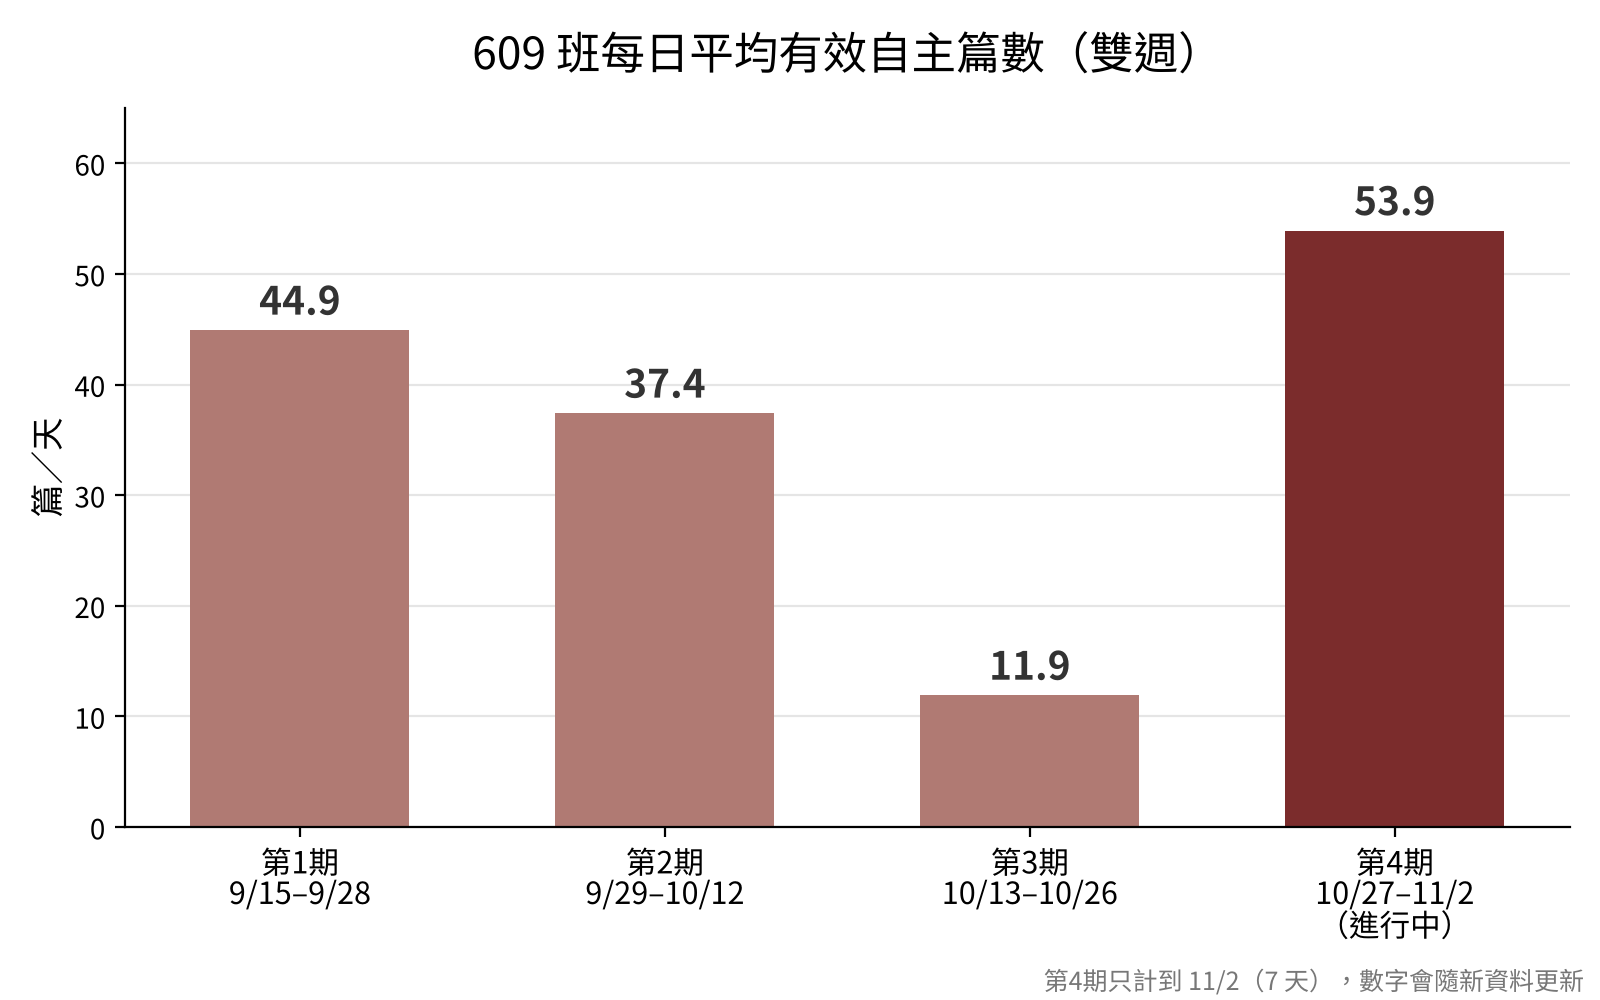
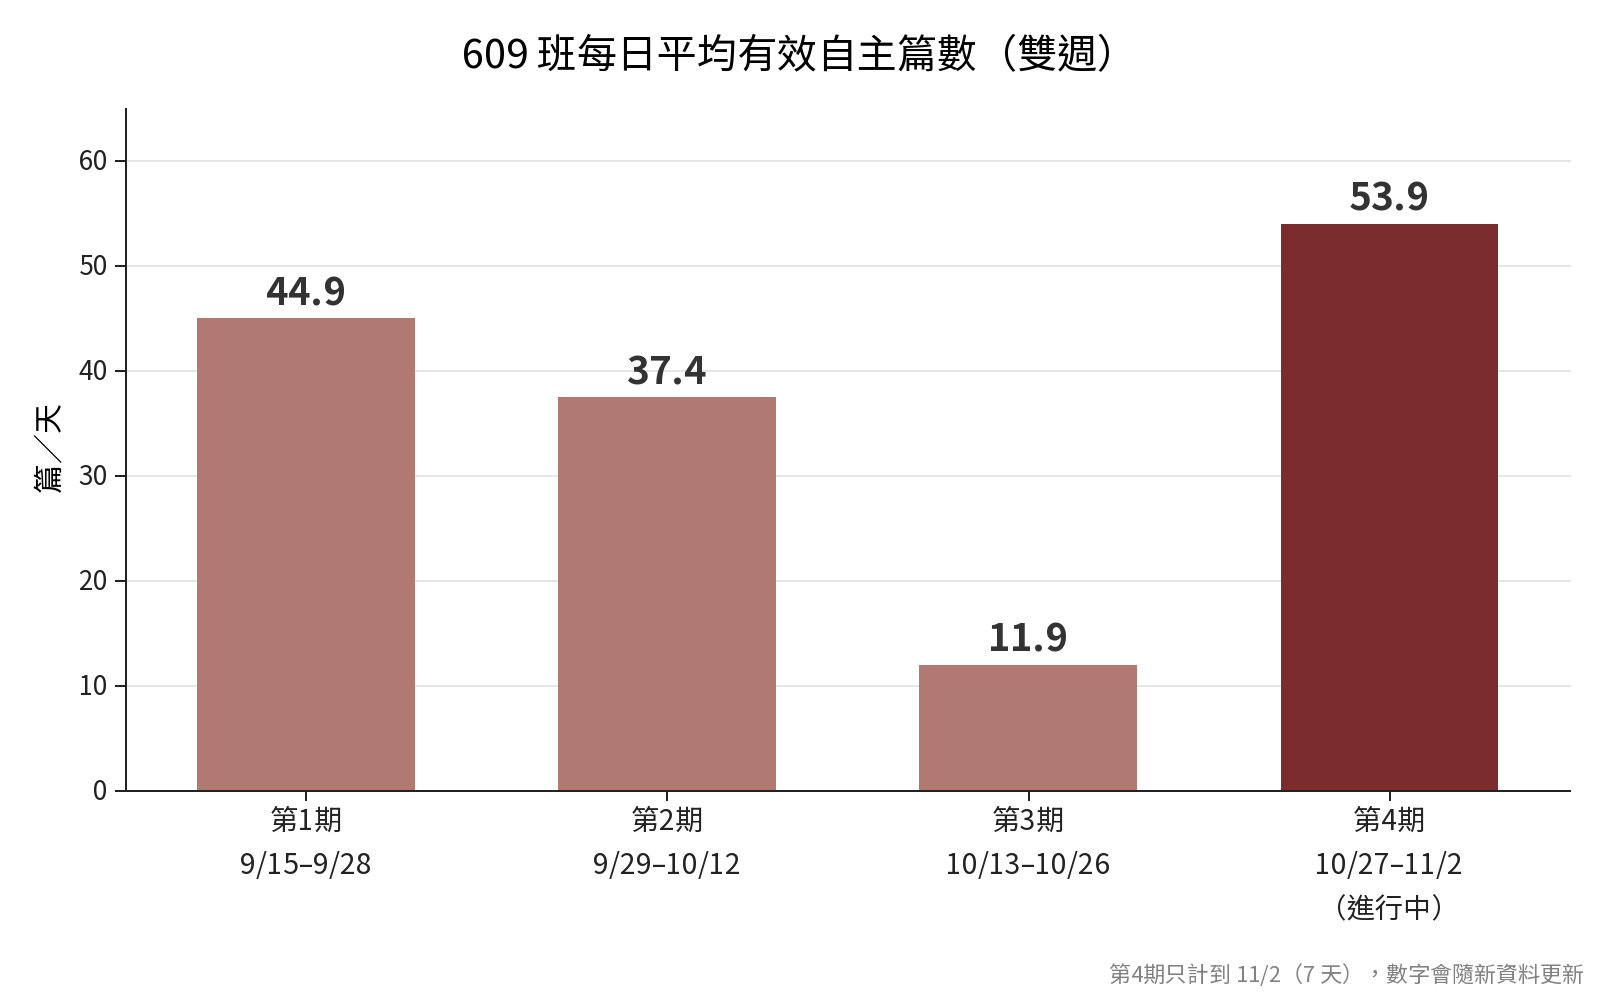
成績查詢：自主閱讀圖重繪，拉開期別標籤行距

diff --git a/index.html b/index.html
@@ -352,7 +352,7 @@
 const config = {
   // Apps Script「部署為網頁應用程式」後得到的網址（結尾是 /exec）
   // 閱讀理解下方的班級自主閱讀圖；換新圖時覆蓋 reading-chart.png，並把 ?v= 後面的數字加 1
-  readingChart: 'reading-chart.png?v=1',
+  readingChart: 'reading-chart.png?v=2',
   apiUrl: 'https://script.google.com/macros/s/AKfycbxJ7A83jHrcDUBj09NJH4TVicBrVAS4PLuNTTSuTEAic5J0d3kN72DMdBREEc-cdHcHng/exec',
 };
 
